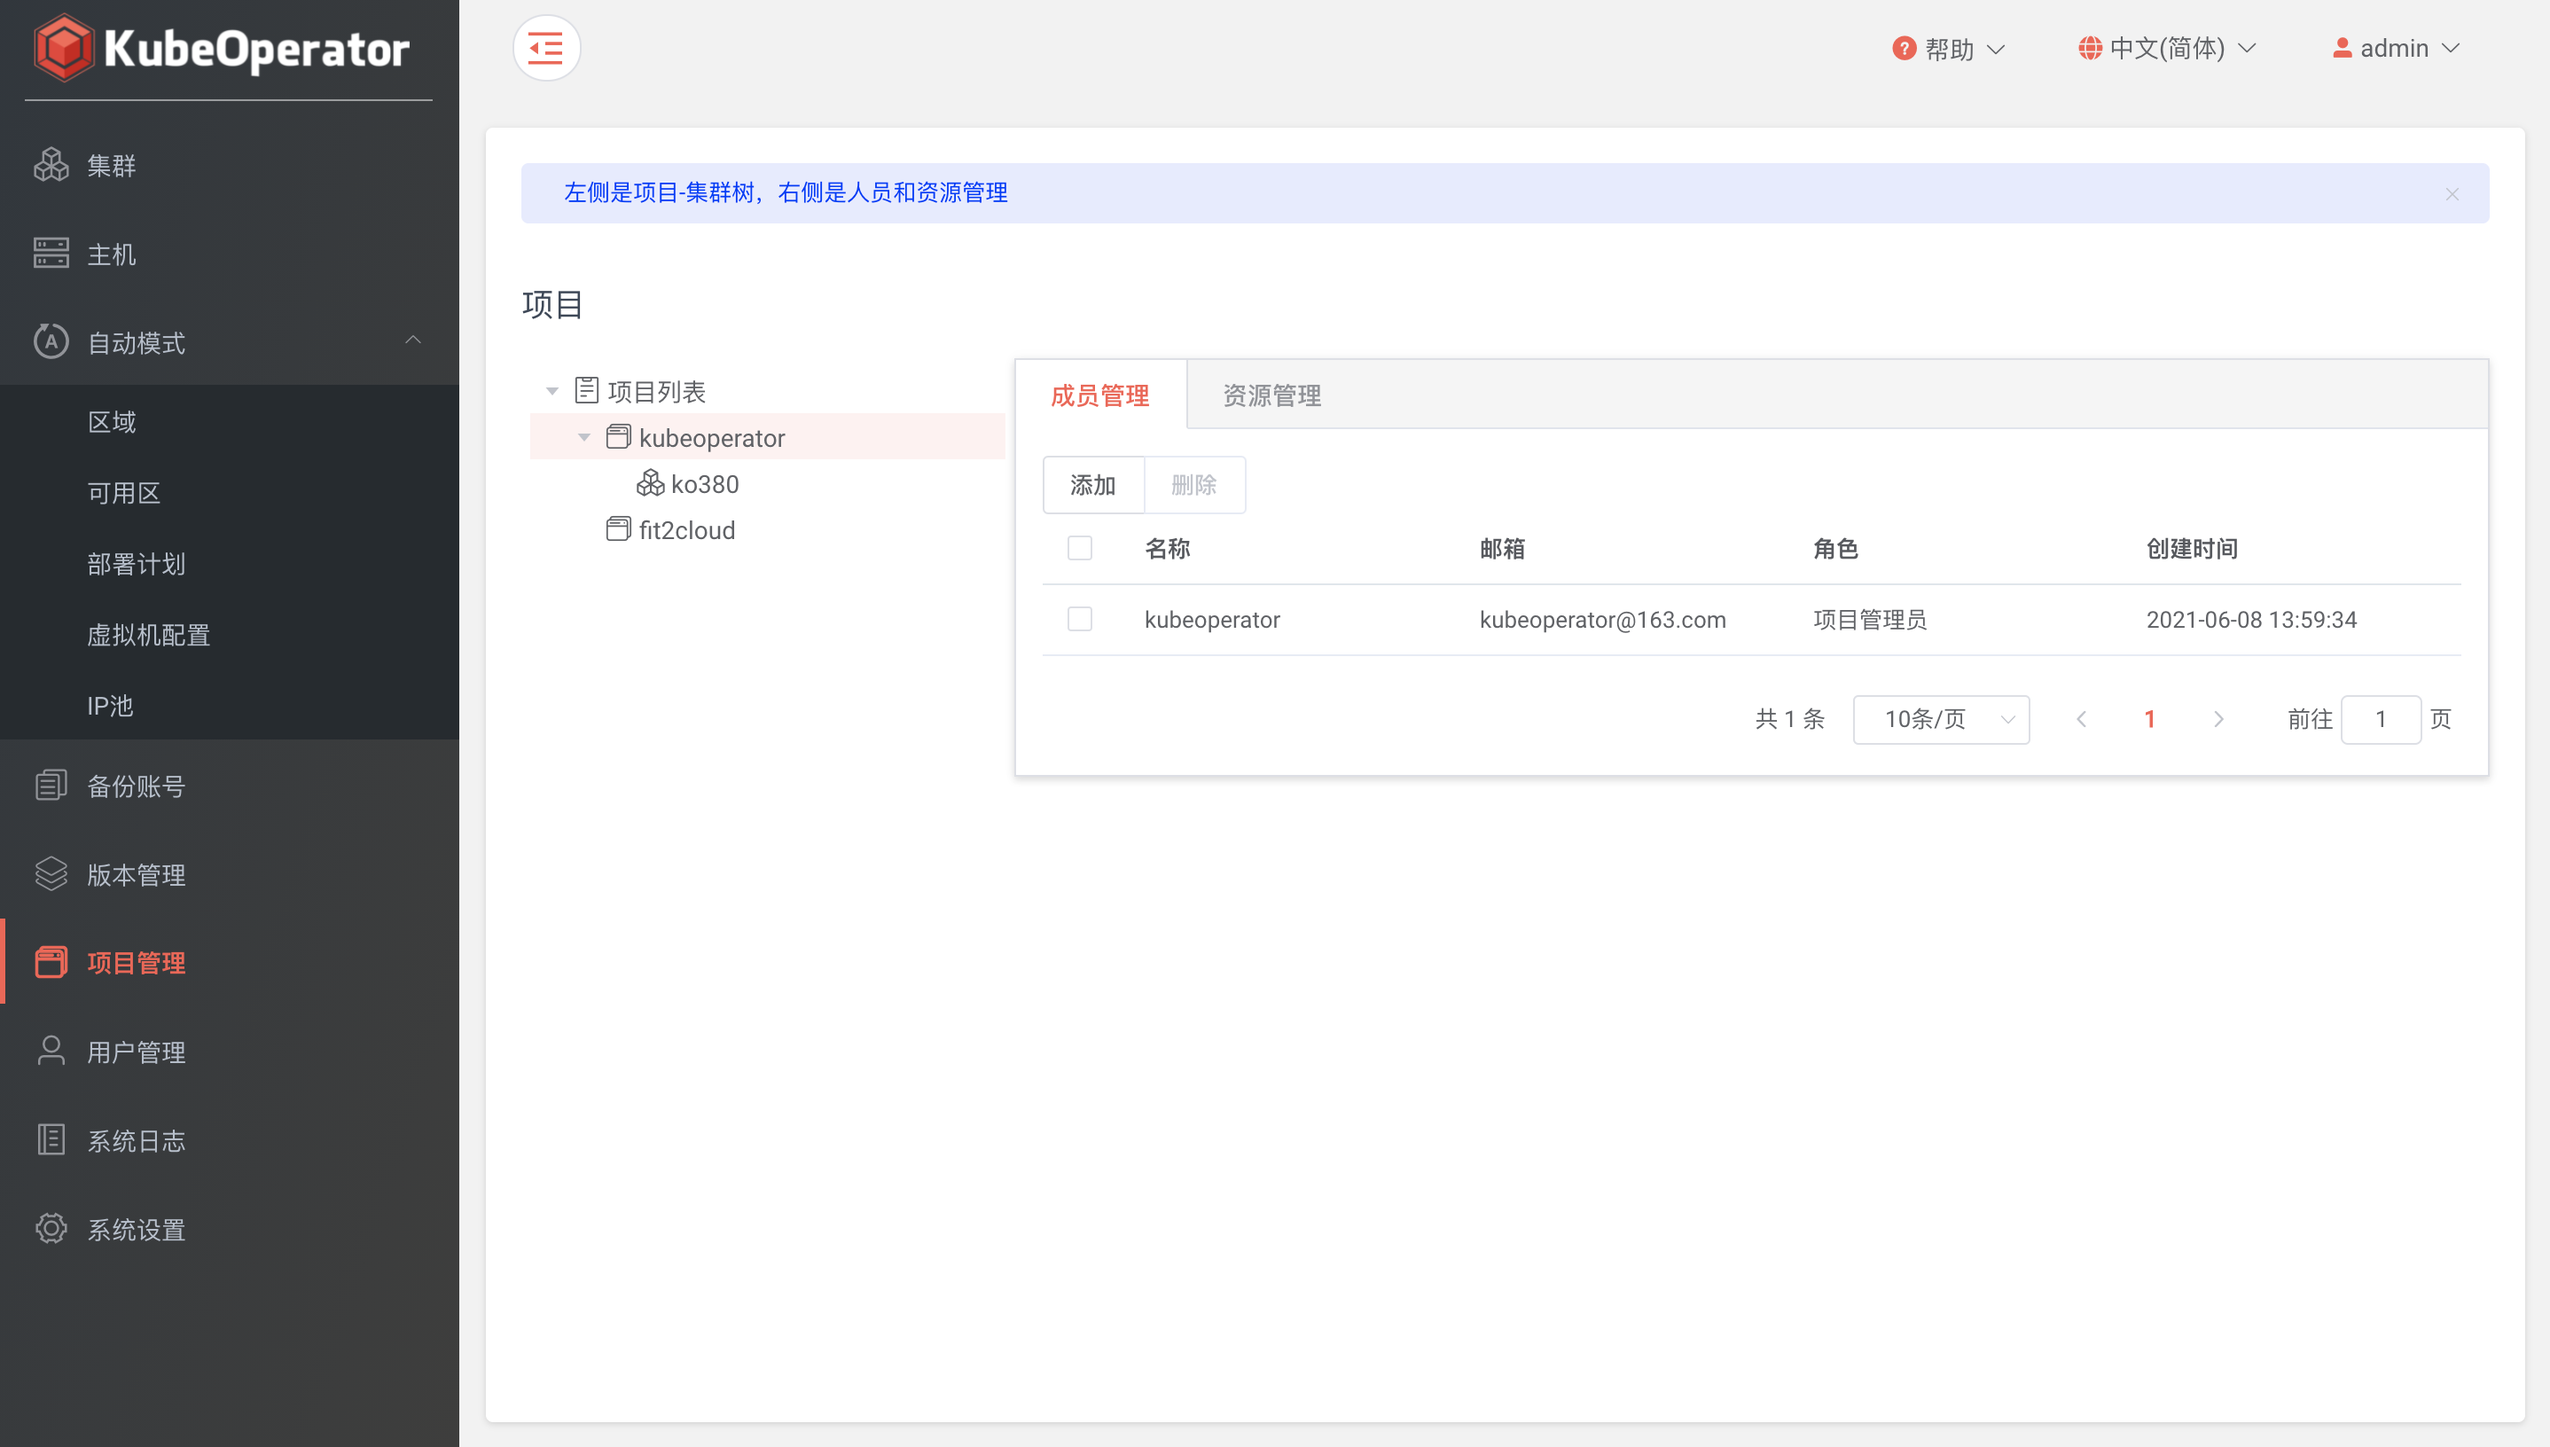
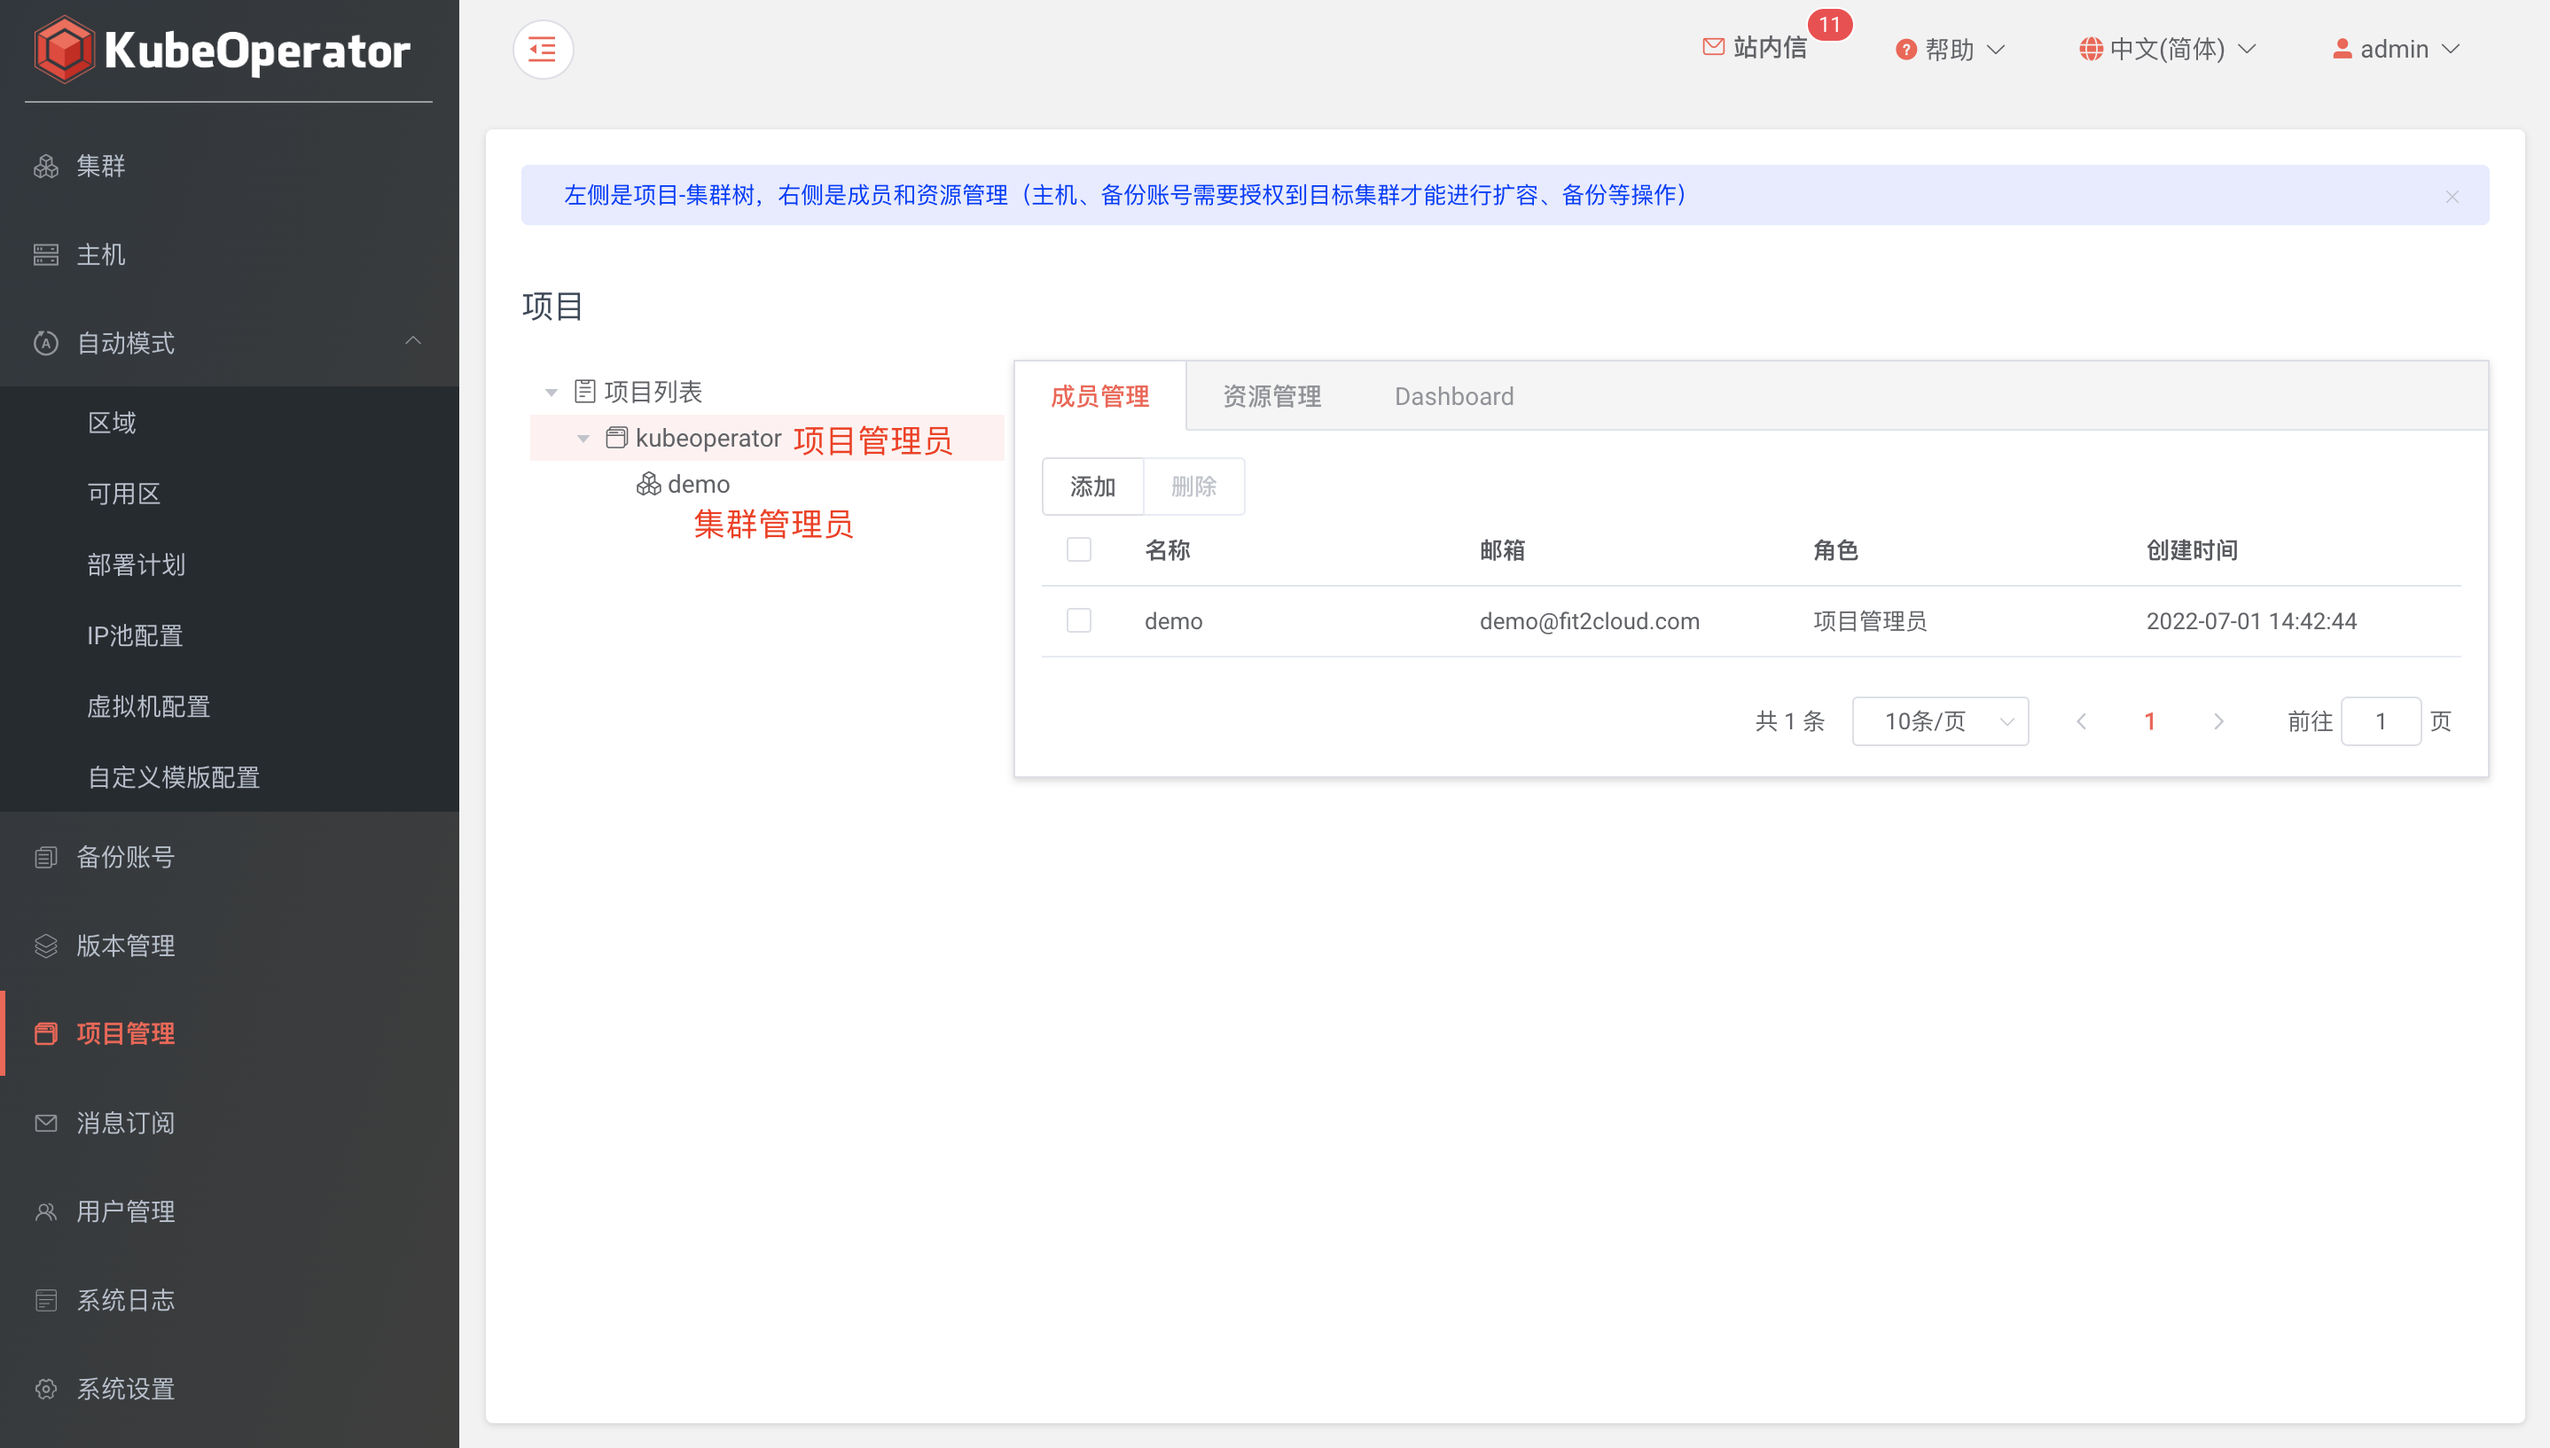
docs: 版本管理

diff --git a/docs/user_manual/project.md b/docs/user_manual/project.md
@@ -1,24 +1,20 @@
 
 !!! warning ""
-    - 系统会初始化一个默认项目（kubeoperator）
-    - 系统管理员可以创建项目、添加项目和集群成员、授权项目和集群资源
+    - 系统会初始化一个默认项目: kubeoperator
+    - 左侧导航为 项目 - 集群 树（设置成员、资源 和 Dashboard 时，均需区分项目或集群）
 
 ### 创建项目
 
 !!! warning ""
-    不同项目之间的集群除系统管理员以外是不可见的
-
-![project-1](../img/user_manual/project/project-1.png)
+    - 系统管理员可以创建项目
+    - 不同项目的集群除系统管理员外是不可见的
 
 ![project-list](../img/user_manual/project/project-list.png)
 
 ### 成员管理
 
 !!! warning ""
-    - 项目管理员可以查看项目及集群成员、查看项目已授权资源、管理集群授权资源
-    - 集群管理员可以管理已授权集群
-
-![project-2](../img/user_manual/project/project-2.png)
+    管理员可将用户设置为项目管理员或集群管理员
 
 ![project-3](../img/user_manual/project/project-3.png)
 
@@ -26,9 +22,15 @@
 
 !!! warning ""
     - 资源包括主机、部署计划和备份账号
-    - 手动模式集群进行扩容操作，要先将主机授权到目标集群
-    - 备份账号需要先授权到目标集群才能启用备份
-
-![project-4](../img/user_manual/project/project-4.png)
+    - 手动模式集群进行 Worker 节点扩容时，需要先将主机授权到目标集群
+    - 备份账号需要授权到目标集群后才能正常启用集群备份/恢复功能
 
 ![project-5](../img/user_manual/project/project-5.png)
+
+### Dashboard
+
+!!! warning ""
+    - 此处为集群列表 Dashboard 系统登录用户及凭据
+    - 若项目和集群同时存在绑定的 Dashboard 用户，则集群绑定用户优先
+
+![project-dashboard](../img/user_manual/project/project-dashboard.png)

diff --git a/docs/kubepi/index.md b/docs/kubepi/index.md
@@ -1,6 +1,6 @@
 
 !!! warning ""
-    [KubePi][KubePi] 是一款简单易用的开源 [Kubernetes][Kubernetes] 可视化管理面板。
+    [KubePi][KubePi] 是一个现代化的 [K8s][Kubernetes] 面板。
 
     [KubePi][KubePi] 允许管理员导入多个 [Kubernetes][Kubernetes] 集群，并且通过权限控制，将不同 cluster、namespace 的权限分配给指定用户。它允许开发人员管理 [Kubernetes][Kubernetes] 集群中运行的应用程序并对其进行故障排查，供开发人员更好地处理 [Kubernetes][Kubernetes] 集群中的复杂性。
 

diff --git a/docs/index.md b/docs/index.md
@@ -11,7 +11,7 @@
 ## 组件项目
 
 !!! warning ""
-    - **[KubePi](https://github.com/KubeOperator/KubePi)**: 简单易用的开源 Kubernetes 可视化管理面板
+    - **[KubePi](https://github.com/KubeOperator/KubePi)**: 一个现代化的 K8s 面板
     - **[Web Kubectl](https://github.com/KubeOperator/webkubectl)**: 在 Web 浏览器中运行 kubectl 命令
 
 ## 技术优势

diff --git a/docs/kubepi/registry.md b/docs/kubepi/registry.md
@@ -3,6 +3,9 @@
     - 支持 Harbor、Nexus、Docker Registry三种类型
     - 创建 Workloads 时可以选择镜像仓库中已有镜像
 
+!!! warning "注意"
+    将镜像仓库授权到目标集群后（集群列表 - 授权），才可以选择该镜像仓库中的镜像来创建 Workloads
+
 ![registry](../img/kubepi/registry.png)
 
 !!! warning "地址"
